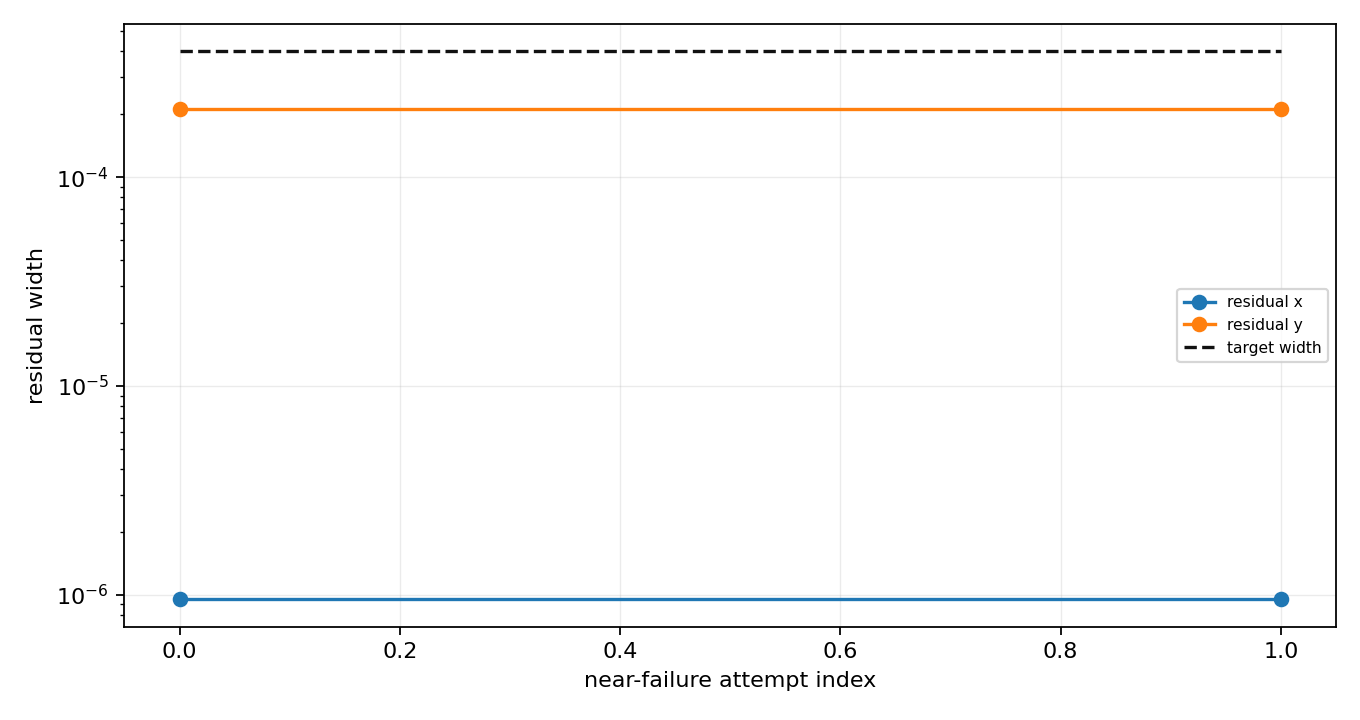
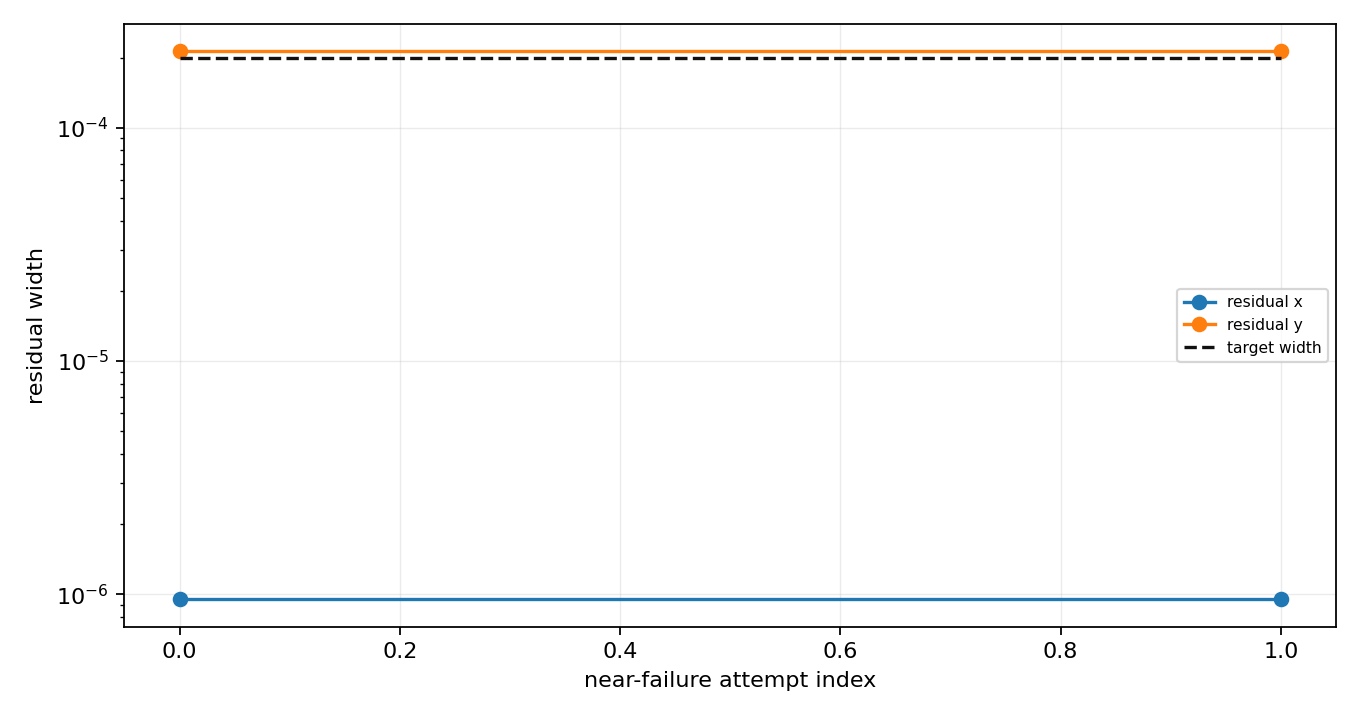
Fix h10 failure target width diagnostics

diff --git a/experiments/flowstar_normalized_insertion_h10_failure.py b/experiments/flowstar_normalized_insertion_h10_failure.py
@@ -116,11 +116,13 @@ def _is_rejected(row: Mapping[str, Any]) -> bool:
 
 
 def _target_width(row: Mapping[str, Any]) -> float:
+    radius = _finite(row.get("target_remainder_radius"))
+    if radius is not None:
+        return 2.0 * radius
     width = _finite(row.get("target_remainder_width"))
     if width is not None:
-        return width
-    radius = _finite(row.get("target_remainder_radius")) or 1e-4
-    return 2.0 * radius
+        return 0.5 * width
+    return 2.0e-4
 
 
 def _ratio(num: Any, den: Any) -> float | str:

diff --git a/outputs/flowstar_normalized_insertion_failure/h10_failure_report.md b/outputs/flowstar_normalized_insertion_failure/h10_failure_report.md
@@ -8,8 +8,8 @@ This is a post-hoc localization report; it does not rerun the reachability kerne
 ### o4 `flowstar_style_o4_target_insert`
 - Failure near t=`6.4730088058091901` with h_try=`0.0034038826916583933`.
 - Failed dimension: `y`.
-- Residual width vs target: x `1.0841545978090407e-05` / `0.0004000000000000001`, y `0.0001931656680284411` / `0.0004000000000000001`.
-- Shift or width? `y:near_target`.
+- Residual width vs target: x `1.0841545978090407e-05` / `0.0002`, y `0.0001931656680284411` / `0.0002`.
+- Shift or width? `y:positive_shift`.
 - Dominant term: `symbolic missing`.
 - Did failure happen after a width-ratio jump? `False`.
 - Did failure happen after a cluster of step rejections? `False`.
@@ -17,8 +17,8 @@ This is a post-hoc localization report; it does not rerun the reachability kerne
 ### o6 `flowstar_style_o6_candidate8_output6_insert`
 - Failure near t=`7.4960392581387341` with h_try=`0.0036197592495462228`.
 - Failed dimension: `y`.
-- Residual width vs target: x `9.5106126089377504e-07` / `0.0004000000000000001`, y `0.00021264219517733133` / `0.0004000000000000001`.
-- Shift or width? `y:near_target`.
+- Residual width vs target: x `9.5106126089377504e-07` / `0.0002`, y `0.00021264219517733133` / `0.0002`.
+- Shift or width? `y:width`.
 - Dominant term: `symbolic missing`.
 - Did failure happen after a width-ratio jump? `False`.
 - Did failure happen after a cluster of step rejections? `False`.
@@ -33,5 +33,5 @@ Which path should be prioritized for h10 parity? o4 for Flow*-settings parity; k
 
 | run_id | last_validated_t | failure_t | h_try | failed_dimension | shift_or_width | dominant_term | width_ratio | rejection_cluster |
 | --- | ---: | ---: | ---: | --- | --- | --- | ---: | --- |
-| flowstar_style_o4_target_insert | 6.4730088058091901 | 6.4730088058091901 | 0.0034038826916583933 | y | y:near_target | symbolic missing | 14.049230879967741 | False |
-| flowstar_style_o6_candidate8_output6_insert | 7.4960392581387341 | 7.4960392581387341 | 0.0036197592495462228 | y | y:near_target | symbolic missing | 101.26404571229142 | False |
+| flowstar_style_o4_target_insert | 6.4730088058091901 | 6.4730088058091901 | 0.0034038826916583933 | y | y:positive_shift | symbolic missing | 14.049230879967741 | False |
+| flowstar_style_o6_candidate8_output6_insert | 7.4960392581387341 | 7.4960392581387341 | 0.0036197592495462228 | y | y:width | symbolic missing | 101.26404571229142 | False |